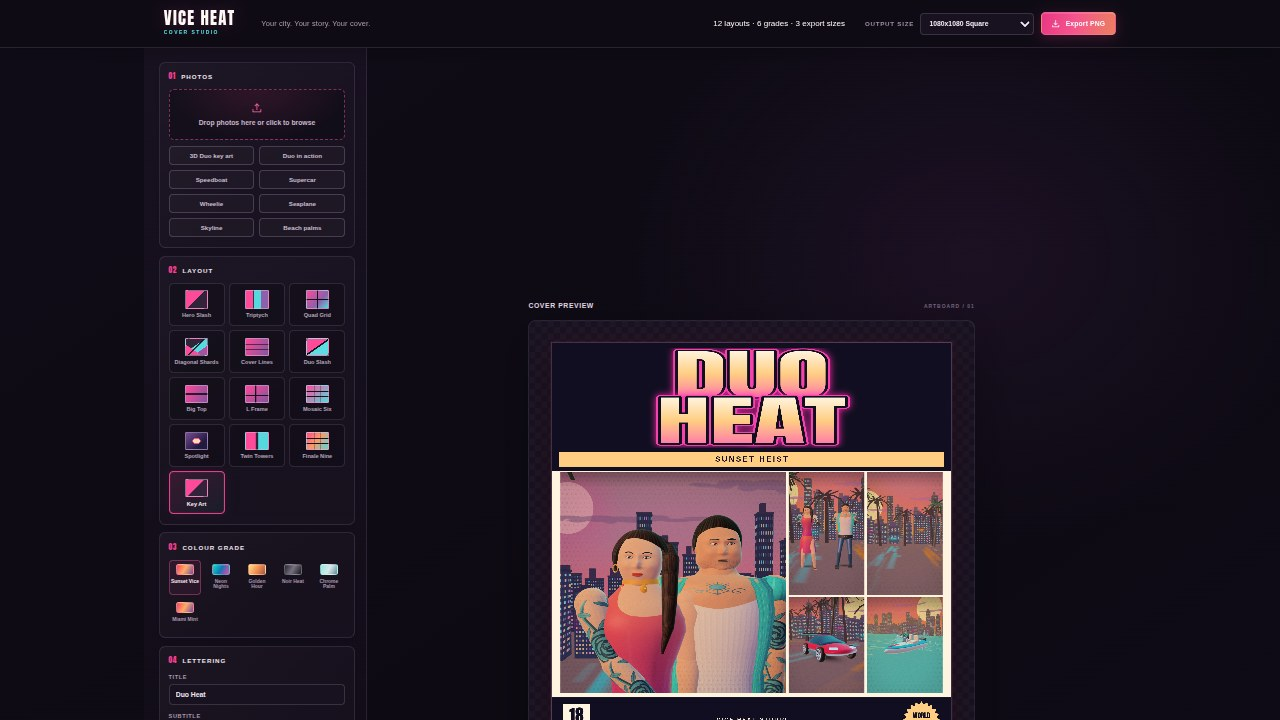
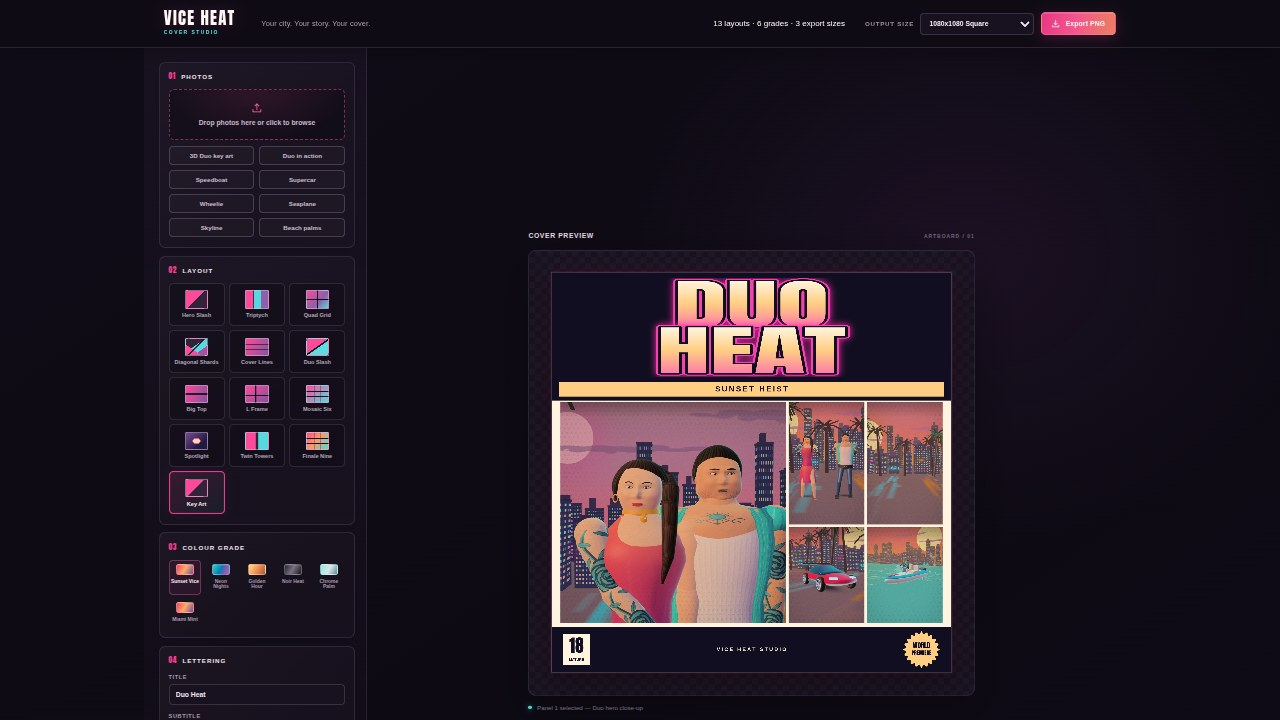
Round 9 polish: 13-layout header text, editor shot fits the whole keyart artboard

diff --git a/app/src/shots.js b/app/src/shots.js
@@ -61,6 +61,14 @@ export async function applyShotMode(api) {
   if (mode === 'editor') document.body.style.zoom = '0.62';
   await nextFrame();
   await nextFrame();
+  if (mode === 'editor') {
+    // Fit the preview without moving the header or the taller control rail.
+    const overflow = document.getElementById('stageWrap').getBoundingClientRect().bottom
+      - window.innerHeight + 24;
+    if (overflow > 0) {
+      document.querySelector('.stage').style.transform = `translateY(${-overflow / 0.62}px)`;
+    }
+  }
   await new Promise(resolve => setTimeout(resolve, 250));
   if (mode === 'cover') document.title = 'shot-ready';
   window.__shotReady = true;

diff --git a/app/index.html b/app/index.html
@@ -15,7 +15,7 @@
       <span>COVER STUDIO</span>
     </div>
     <p class="tagline">Your city. Your story. Your cover.</p>
-    <span class="live-badge">12 layouts · 6 grades · 3 export sizes</span>
+    <span class="live-badge">13 layouts · 6 grades · 3 export sizes</span>
     <div class="export-tools">
       <label for="sizeSelect">Output size</label>
       <select id="sizeSelect">
